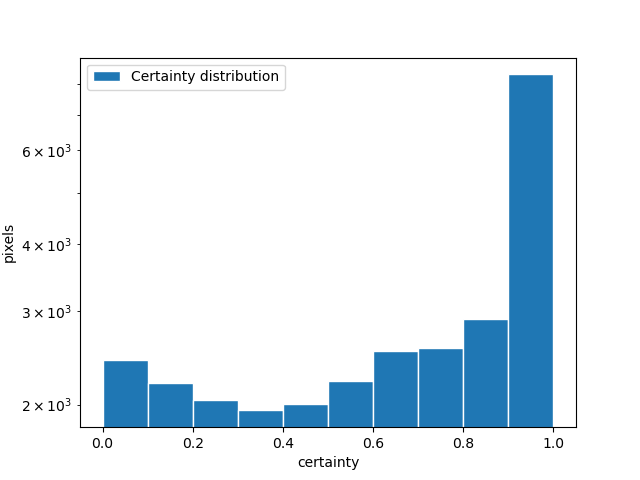
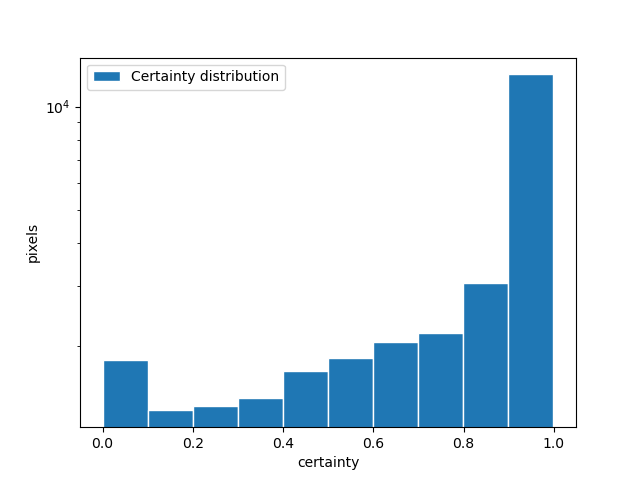
updating fiability

diff --git a/change_detection/fiability.py b/change_detection/fiability.py
@@ -19,7 +19,7 @@ def check_fiability(hard_pred, soft_pred, source_certainty, outdir):#, target_ce
         
     soft_ = rasterio.open(soft_pred).read(1).astype('int')
     source_certainty = rasterio.open(source_certainty).read(1)
-    # target_certainty = rasterio.open(target_certainty).read(1)
+    target_certainty = rasterio.open(target_certainty).read(1)
     
     mask = hard_ != 0
     
@@ -32,16 +32,16 @@ def check_fiability(hard_pred, soft_pred, source_certainty, outdir):#, target_ce
     hard_ = mask_and_extract(hard_, mask)
     soft_ = mask_and_extract(soft_, mask)
     source_certainty = mask_and_extract(source_certainty, mask)
-    # target_certainty = mask_and_extract(target_certainty, mask)
+    target_certainty = mask_and_extract(target_certainty, mask)
     
     # # agreement between soft and hard detection and they are correct
     # agree_ = np.zeros_like(hard_)
-    # agree_[(hard_ == 1) & (soft_ == 1) | (hard_ == 4) & (soft_ == 4)] = 1 #both correct
-    # agree_[(hard_ == 2) & (soft_ == 3) | (hard_ == 3) & (soft_ == 2)] = 2 # both incorrect -- This returns nothing because there is no intersecting pixel btw the two
-    # agree_[(hard_ == 1) & (soft_ == 2) | (hard_ == 4) & (soft_ == 3)] = 3 # hard correct and soft not
-    # agree_[(hard_ == 4) & (soft_ == 2) | (hard_ == 1) & (soft_ == 3)] = 3 # hard correct and soft not
-    # agree_[(hard_ == 2) & (soft_ == 1) | (hard_ == 3) & (soft_ == 4)] = 4 # hard incorrect and soft is
-    # agree_[(hard_ == 2) & (soft_ == 4) | (hard_ == 3) & (soft_ == 1)] = 4 # hard incorrect and soft is
+    agree_[(hard_ == 1) & (soft_ == 1) | (hard_ == 4) & (soft_ == 4)] = 1 #both correct
+    agree_[(hard_ == 2) & (soft_ == 3) | (hard_ == 3) & (soft_ == 2)] = 2 # both incorrect -- This returns nothing because there is no intersecting pixel btw the two
+    agree_[(hard_ == 1) & (soft_ == 2) | (hard_ == 4) & (soft_ == 3)] = 3 # hard correct and soft not
+    agree_[(hard_ == 4) & (soft_ == 2) | (hard_ == 1) & (soft_ == 3)] = 3 # hard correct and soft not
+    agree_[(hard_ == 2) & (soft_ == 1) | (hard_ == 3) & (soft_ == 4)] = 4 # hard incorrect and soft is
+    agree_[(hard_ == 2) & (soft_ == 4) | (hard_ == 3) & (soft_ == 1)] = 4 # hard incorrect and soft is
     
     # fiability measure histogram
     def _mask(cert, agree, value):
@@ -50,12 +50,12 @@ def check_fiability(hard_pred, soft_pred, source_certainty, outdir):#, target_ce
         return cert.compressed()
     
     # plot fiability distribution
-    def plot_hist(data, domain):
-        plt.hist(data, bins=10, label='Certainty distribution', ec='white', log=True)
+    def plot_hist(data, data2):
+        plt.hist([data, data2], bins=10, label=['Source', 'Target'], ec='white', log=True)
         plt.xlabel('certainty')
         plt.ylabel('pixels')
         plt.legend(loc="upper left")
-        plt.savefig(os.path.join(outdir, case_name+'_'+domain+'_fiability_subcase_' +str(i)+'.png'))
+        plt.savefig(os.path.join(outdir, case_name+'_fiability_subcase_' +str(i)+'.png'))
         # plt.show()
         plt.close()
     
@@ -74,17 +74,17 @@ if __name__ == '__main__':
     
     for i in ['1','2','3' ]:
         start_time = time.time()
-        # hard_pred = '../../../results/RF/binary_change_D/change_map_case_'+i+'.tif'  #4case
-        # soft_pred = '../../../results/RF/simliarity_measure/optimal_threshold/sim-change_map_case_'+i+'.tif'
-        # source_certainty = '../../../results/RF/simliarity_measure/certainty/2018_certainty_'+i+'.tif'
-        # # target_certainty = '../../../results/RF/simliarity_measure/certainty/2019_certainty_'+i+'.tif'
-        # outdir = './charts'
-        # check_fiability(hard_pred, soft_pred, source_certainty, outdir)#, target_certainty, outdir)
-        # print("time taken: {}, is {}".format(i, time.time() - start_time))
-    for i in ['1','2','3']:
-        hard_pred = '../../../results/RF/binary_change_D/change_map_case_4.tif'  #4case
-        soft_pred = '../../../results/RF/simliarity_measure/optimal_threshold/sim-change_map_case_4.tif'
+        hard_pred = '../../../results/RF/binary_change_D/change_map_case_'+i+'.tif'  #4case
+        soft_pred = '../../../results/RF/simliarity_measure/optimal_threshold/sim-change_map_case_'+i+'.tif'
         # source_certainty = '../../../results/RF/simliarity_measure/certainty/2018_certainty_'+i+'.tif'
         target_certainty = '../../../results/RF/simliarity_measure/certainty/2019_certainty_'+i+'.tif'
         outdir = './charts'
         check_fiability(hard_pred, soft_pred, target_certainty, outdir)#, target_certainty, outdir)
+        print("time taken: {}, is {}".format(i, time.time() - start_time))
+    # for i in ['1','2','3']:
+    #     hard_pred = '../../../results/RF/binary_change_D/change_map_case_4.tif'  #4case
+    #     soft_pred = '../../../results/RF/simliarity_measure/optimal_threshold/sim-change_map_case_4.tif'
+    #     # source_certainty = '../../../results/RF/simliarity_measure/certainty/2018_certainty_'+i+'.tif'
+    #     target_certainty = '../../../results/RF/simliarity_measure/certainty/2019_certainty_'+i+'.tif'
+    #     outdir = './charts'
+    #     check_fiability(hard_pred, soft_pred, target_certainty, outdir)#, target_certainty, outdir)

diff --git a/change_detection/Binary_change_detection.py b/change_detection/Binary_change_detection.py
@@ -52,38 +52,43 @@ def binary_change_detection(gt_source_path, gt_target_path, outdir_,  case, pred
 
     gt_binary_values = np.ma.compressed(gt_binary_mask) #[1,2] unique values
     pred_binary_values = np.ma.compressed(pred_binary_mask) # [1,2] unique values
-    
-    
+
+    pred_binary_map = np.empty_like(gt_binary)
+    pred_binary_map[~gt_binary_mask.mask] = pred_binary_values.ravel()
+    # write the change map
+    with rasterio.open(os.path.join(outdir_, 'HP_binary_change_map'+ case +'.tif'), 'w', **profile) as dst:
+        dst.write(pred_binary_map, 1)
+    print("--- %s minutes ---" % ((time.time() - starttime) / 60))
 #     # change matrix
-    cm = confusion_matrix(gt_binary_values, pred_binary_values)
+#     cm = confusion_matrix(gt_binary_values, pred_binary_values)
     
-    cm_per = cm.astype('float') / np.sum(cm)
-    # plot the change matrix
-    label = ['No change', 'Change']
-    cm_plot = sns.heatmap(cm_per, annot=True, fmt='.2%', cmap='Greens', xticklabels=label, yticklabels=label, cbar=False)
-    cm_plot.set(xlabel= "Predicted", ylabel= "Ground truth")
-    # cm_plot.set_title(title_)
-    # save the plot
-    # plt.savefig(os.path.join('./charts','change_matrix_percent_case' + case +'.png'))
+#     cm_per = cm.astype('float') / np.sum(cm)
+#     # plot the change matrix
+#     label = ['No change', 'Change']
+#     cm_plot = sns.heatmap(cm_per, annot=True, fmt='.2%', cmap='Greens', xticklabels=label, yticklabels=label, cbar=False)
+#     cm_plot.set(xlabel= "Predicted", ylabel= "Ground truth")
+#     # cm_plot.set_title(title_)
+#     # save the plot
+#     # plt.savefig(os.path.join('./charts','change_matrix_percent_case' + case +'.png'))
 
-    ## change map
-    # Note:
-    # 0 = nodata
-    # 1 = (1 == 1) ~ No change = No change
-    # 2 = (1 == 2) ~ No change = Change
-    # 3 = (2 == 1) ~ Change = No change
-    # 4 = (2 == 2) ~ Change = Change
+#     ## change map
+#     # Note:
+#     # 0 = nodata
+#     # 1 = (1 == 1) ~ No change = No change
+#     # 2 = (1 == 2) ~ No change = Change
+#     # 3 = (2 == 1) ~ Change = No change
+#     # 4 = (2 == 2) ~ Change = Change
 
-    ##change array - 
-    change_array = np.empty_like(gt_binary_values) # as the same dimension as gt_binary_values
-    change_array[(gt_binary_values == 1) & (pred_binary_values == 1)] = 1
-    change_array[(gt_binary_values == 1) & (pred_binary_values == 2)] = 2
-    change_array[(gt_binary_values == 2) & (pred_binary_values == 1)] = 3
-    change_array[(gt_binary_values == 2) & (pred_binary_values == 2)] = 4
+#     ##change array - 
+#     change_array = np.empty_like(gt_binary_values) # as the same dimension as gt_binary_values
+#     change_array[(gt_binary_values == 1) & (pred_binary_values == 1)] = 1
+#     change_array[(gt_binary_values == 1) & (pred_binary_values == 2)] = 2
+#     change_array[(gt_binary_values == 2) & (pred_binary_values == 1)] = 3
+#     change_array[(gt_binary_values == 2) & (pred_binary_values == 2)] = 4
 
-    # change map
-    change_map = np.empty_like(gt_binary)
-    change_map[~gt_binary_mask.mask] = change_array.ravel() # returns 
+#     # change map
+#     change_map = np.empty_like(gt_binary)
+#     change_map[~gt_binary_mask.mask] = change_array.ravel() # returns 
 
     ## write the change map
     # with rasterio.open(os.path.join(outdir_, 'change_map_case'+ case +'.tif'), 'w', **profile) as dst:
@@ -92,14 +97,14 @@ def binary_change_detection(gt_source_path, gt_target_path, outdir_,  case, pred
     
     # this is just to compute the fscore for pred_binary; this is needed to be compared with 
     # fscore from threshold of similarity measure
-    gt_binary_values[gt_binary_values ==1] = 0
-    gt_binary_values[gt_binary_values ==2] = 1
-    pred_binary_values[pred_binary_values ==1] = 0
-    pred_binary_values[pred_binary_values ==2] = 1
+#     gt_binary_values[gt_binary_values ==1] = 0
+#     gt_binary_values[gt_binary_values ==2] = 1
+#     pred_binary_values[pred_binary_values ==1] = 0
+#     pred_binary_values[pred_binary_values ==2] = 1
     
-    fscore = f1_score(gt_binary_values, pred_binary_values)
-    f = open(os.path.join('./charts/', 'delcase_' + case + '_fscore.txt'), 'w')
-    f.write('F1 score: {}'.format(fscore))
+#     fscore = f1_score(gt_binary_values, pred_binary_values)
+#     f = open(os.path.join('./charts/', 'delcase_' + case + '_fscore.txt'), 'w')
+#     f.write('F1 score: {}'.format(fscore))
     
 if __name__ == '__main__':
     gt_source_path = '../../../data/rasterized_samples/2018_rasterizedImage.tif'
@@ -107,9 +112,9 @@ if __name__ == '__main__':
     
 
     # for case in ['1', '2', '3']:
-        pred_source_path = '../../../results/RF/2018_rf_case_'+ case +'_map.tif'
-        pred_target_path = '../../../results/RF/2019_rf_case_'+ case +'_map.tif'
-        outdir_ = '../../../results/RF/binary_change_D'
+    #     pred_source_path = '../../../results/RF/2018_rf_case_'+ case +'_map.tif'
+    #     pred_target_path = '../../../results/RF/2019_rf_case_'+ case +'_map.tif'
+    #     outdir_ = '../../../results/RF/binary_change_D'
     #     binary_change_detection(gt_source_path, gt_target_path, outdir_, case, pred_source_path, pred_target_path)
         
     # case 4

diff --git a/change_detection/.ipynb_checkpoints/Binary_change_detection-checkpoint.py b/change_detection/.ipynb_checkpoints/Binary_change_detection-checkpoint.py
@@ -52,38 +52,43 @@ def binary_change_detection(gt_source_path, gt_target_path, outdir_,  case, pred
 
     gt_binary_values = np.ma.compressed(gt_binary_mask) #[1,2] unique values
     pred_binary_values = np.ma.compressed(pred_binary_mask) # [1,2] unique values
-    
-    
+
+    pred_binary_map = np.empty_like(gt_binary)
+    pred_binary_map[~gt_binary_mask.mask] = pred_binary_values.ravel()
+    # write the change map
+    with rasterio.open(os.path.join(outdir_, 'HP_binary_change_map'+ case +'.tif'), 'w', **profile) as dst:
+        dst.write(pred_binary_map, 1)
+    print("--- %s minutes ---" % ((time.time() - starttime) / 60))
 #     # change matrix
-    cm = confusion_matrix(gt_binary_values, pred_binary_values)
+#     cm = confusion_matrix(gt_binary_values, pred_binary_values)
     
-    cm_per = cm.astype('float') / np.sum(cm)
-    # plot the change matrix
-    label = ['No change', 'Change']
-    cm_plot = sns.heatmap(cm_per, annot=True, fmt='.2%', cmap='Greens', xticklabels=label, yticklabels=label, cbar=False)
-    cm_plot.set(xlabel= "Predicted", ylabel= "Ground truth")
-    # cm_plot.set_title(title_)
-    # save the plot
-    # plt.savefig(os.path.join('./charts','change_matrix_percent_case' + case +'.png'))
+#     cm_per = cm.astype('float') / np.sum(cm)
+#     # plot the change matrix
+#     label = ['No change', 'Change']
+#     cm_plot = sns.heatmap(cm_per, annot=True, fmt='.2%', cmap='Greens', xticklabels=label, yticklabels=label, cbar=False)
+#     cm_plot.set(xlabel= "Predicted", ylabel= "Ground truth")
+#     # cm_plot.set_title(title_)
+#     # save the plot
+#     # plt.savefig(os.path.join('./charts','change_matrix_percent_case' + case +'.png'))
 
-    ## change map
-    # Note:
-    # 0 = nodata
-    # 1 = (1 == 1) ~ No change = No change
-    # 2 = (1 == 2) ~ No change = Change
-    # 3 = (2 == 1) ~ Change = No change
-    # 4 = (2 == 2) ~ Change = Change
+#     ## change map
+#     # Note:
+#     # 0 = nodata
+#     # 1 = (1 == 1) ~ No change = No change
+#     # 2 = (1 == 2) ~ No change = Change
+#     # 3 = (2 == 1) ~ Change = No change
+#     # 4 = (2 == 2) ~ Change = Change
 
-    ##change array - 
-    change_array = np.empty_like(gt_binary_values) # as the same dimension as gt_binary_values
-    change_array[(gt_binary_values == 1) & (pred_binary_values == 1)] = 1
-    change_array[(gt_binary_values == 1) & (pred_binary_values == 2)] = 2
-    change_array[(gt_binary_values == 2) & (pred_binary_values == 1)] = 3
-    change_array[(gt_binary_values == 2) & (pred_binary_values == 2)] = 4
+#     ##change array - 
+#     change_array = np.empty_like(gt_binary_values) # as the same dimension as gt_binary_values
+#     change_array[(gt_binary_values == 1) & (pred_binary_values == 1)] = 1
+#     change_array[(gt_binary_values == 1) & (pred_binary_values == 2)] = 2
+#     change_array[(gt_binary_values == 2) & (pred_binary_values == 1)] = 3
+#     change_array[(gt_binary_values == 2) & (pred_binary_values == 2)] = 4
 
-    # change map
-    change_map = np.empty_like(gt_binary)
-    change_map[~gt_binary_mask.mask] = change_array.ravel() # returns 
+#     # change map
+#     change_map = np.empty_like(gt_binary)
+#     change_map[~gt_binary_mask.mask] = change_array.ravel() # returns 
 
     ## write the change map
     # with rasterio.open(os.path.join(outdir_, 'change_map_case'+ case +'.tif'), 'w', **profile) as dst:
@@ -92,14 +97,14 @@ def binary_change_detection(gt_source_path, gt_target_path, outdir_,  case, pred
     
     # this is just to compute the fscore for pred_binary; this is needed to be compared with 
     # fscore from threshold of similarity measure
-    gt_binary_values[gt_binary_values ==1] = 0
-    gt_binary_values[gt_binary_values ==2] = 1
-    pred_binary_values[pred_binary_values ==1] = 0
-    pred_binary_values[pred_binary_values ==2] = 1
+#     gt_binary_values[gt_binary_values ==1] = 0
+#     gt_binary_values[gt_binary_values ==2] = 1
+#     pred_binary_values[pred_binary_values ==1] = 0
+#     pred_binary_values[pred_binary_values ==2] = 1
     
-    fscore = f1_score(gt_binary_values, pred_binary_values)
-    f = open(os.path.join('./charts/', 'delcase_' + case + '_fscore.txt'), 'w')
-    f.write('F1 score: {}'.format(fscore))
+#     fscore = f1_score(gt_binary_values, pred_binary_values)
+#     f = open(os.path.join('./charts/', 'delcase_' + case + '_fscore.txt'), 'w')
+#     f.write('F1 score: {}'.format(fscore))
     
 if __name__ == '__main__':
     gt_source_path = '../../../data/rasterized_samples/2018_rasterizedImage.tif'
